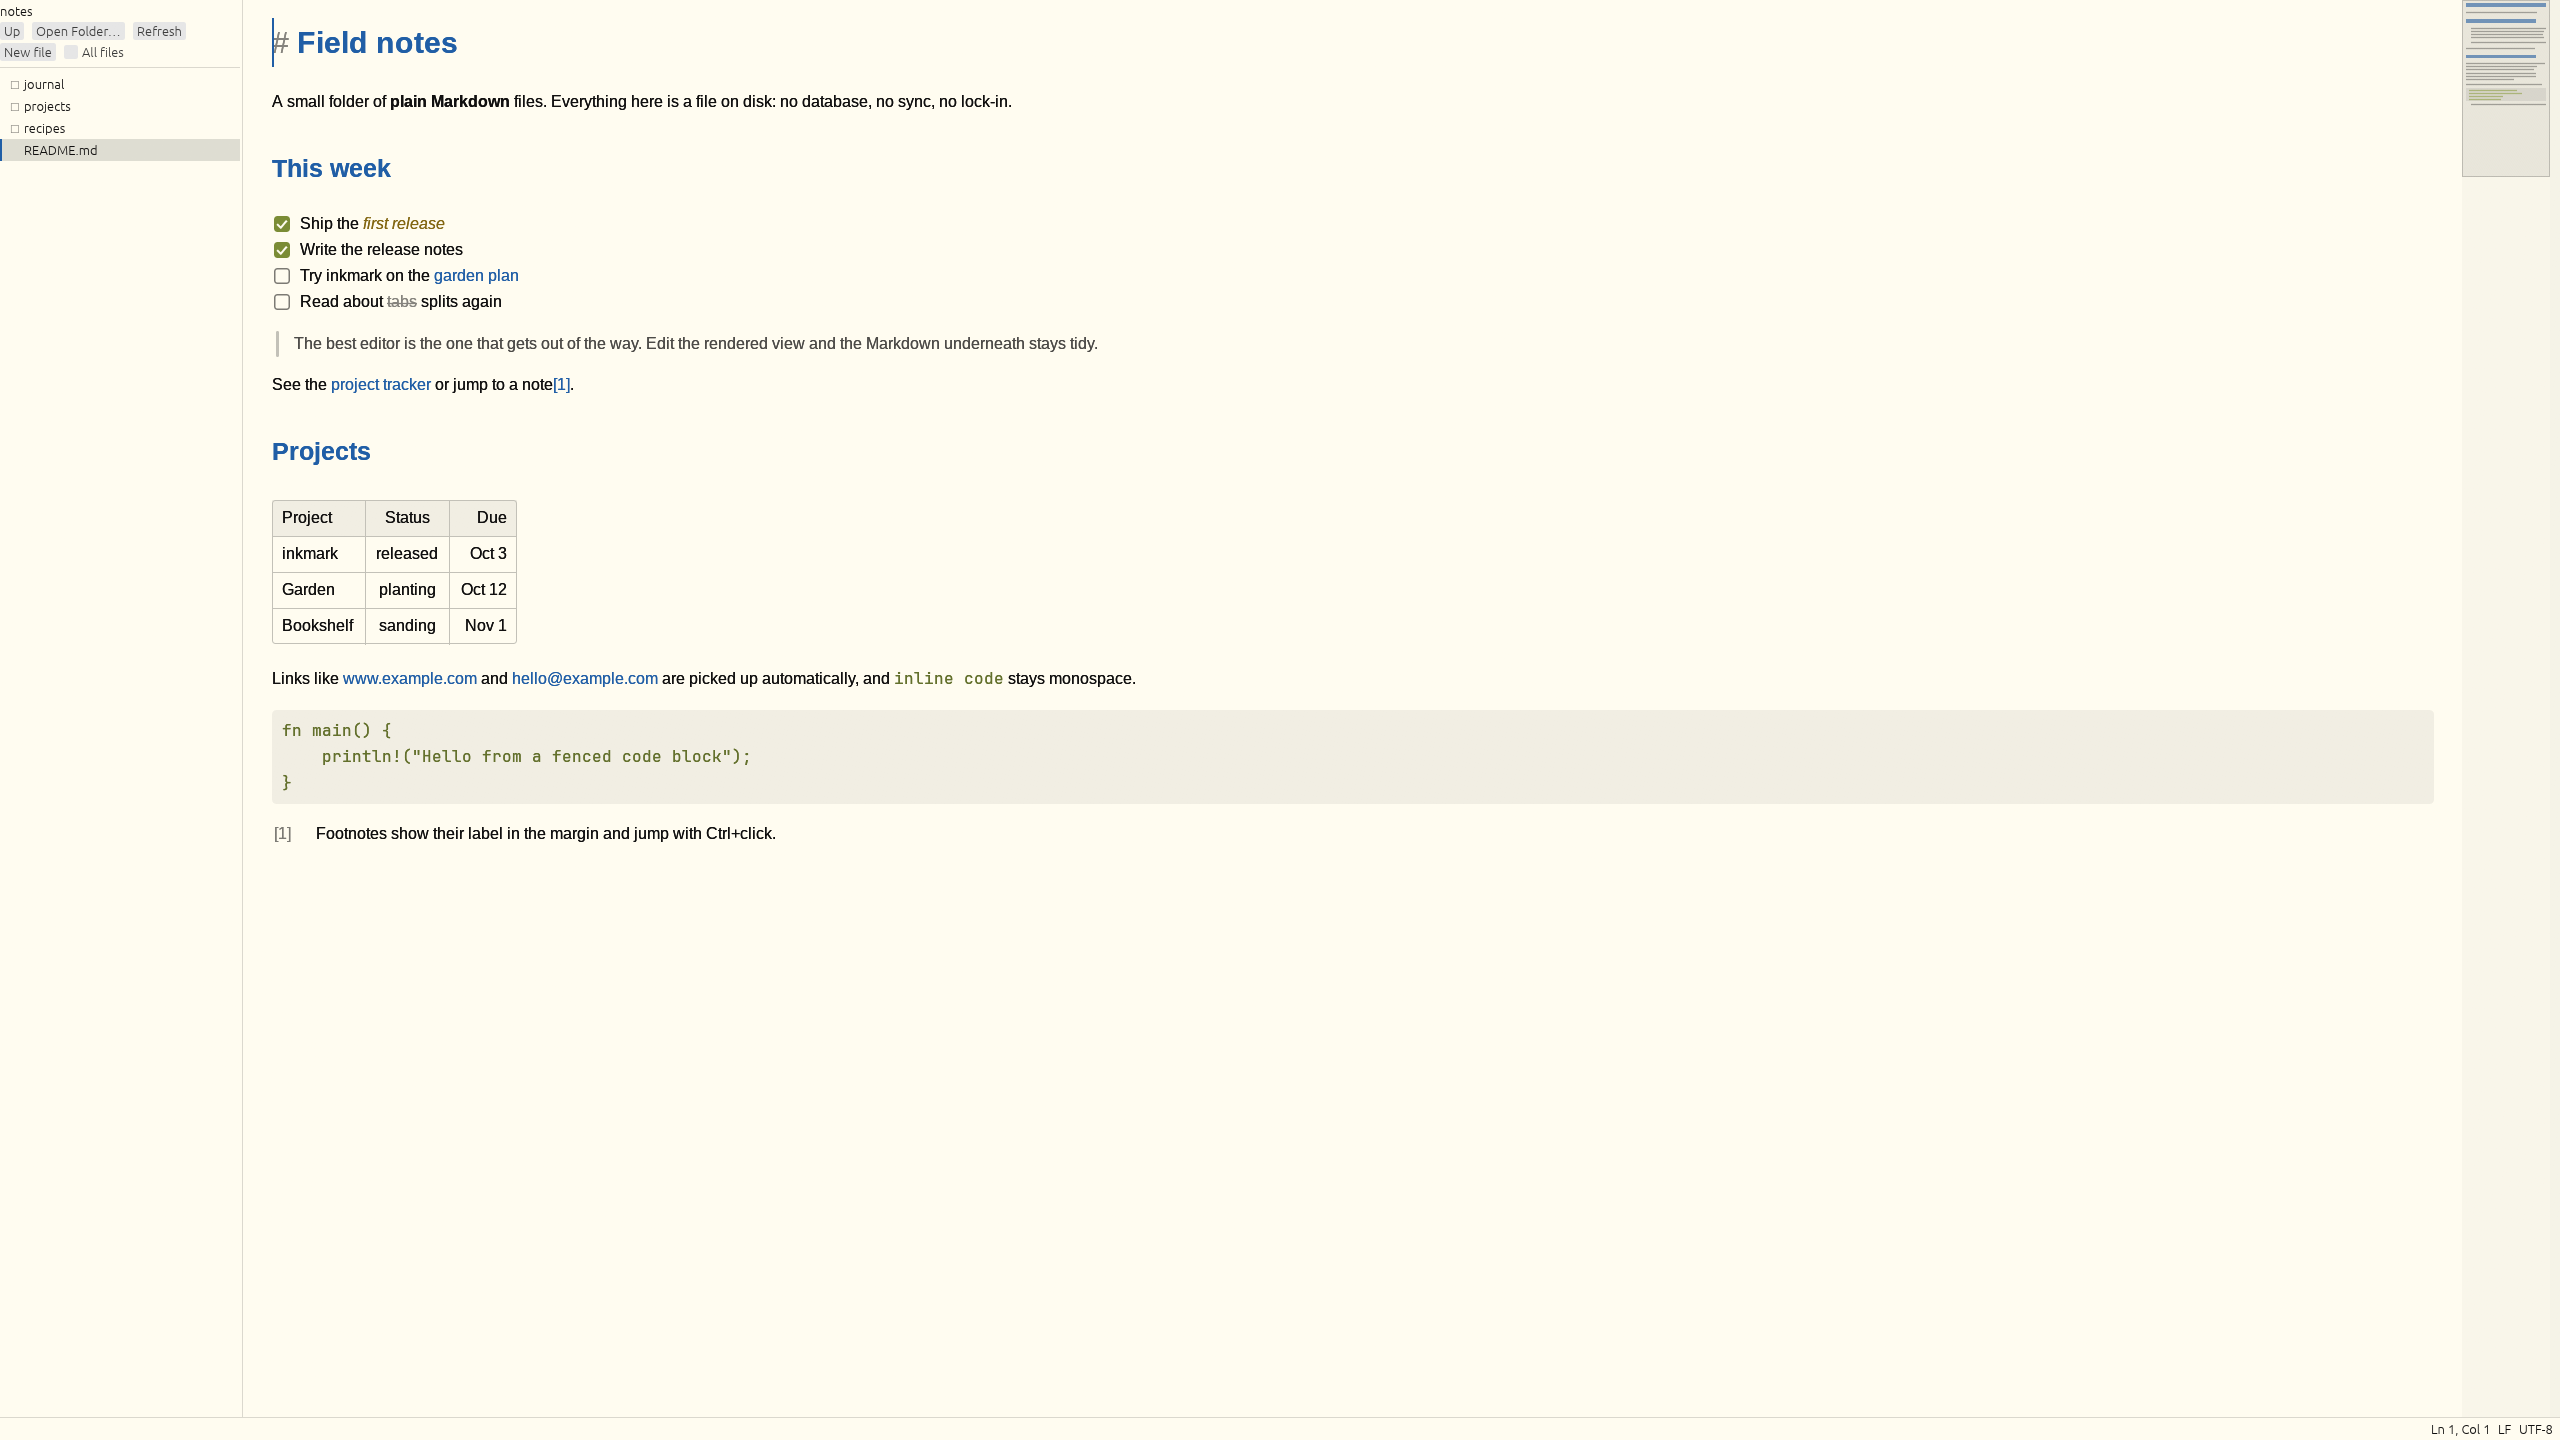
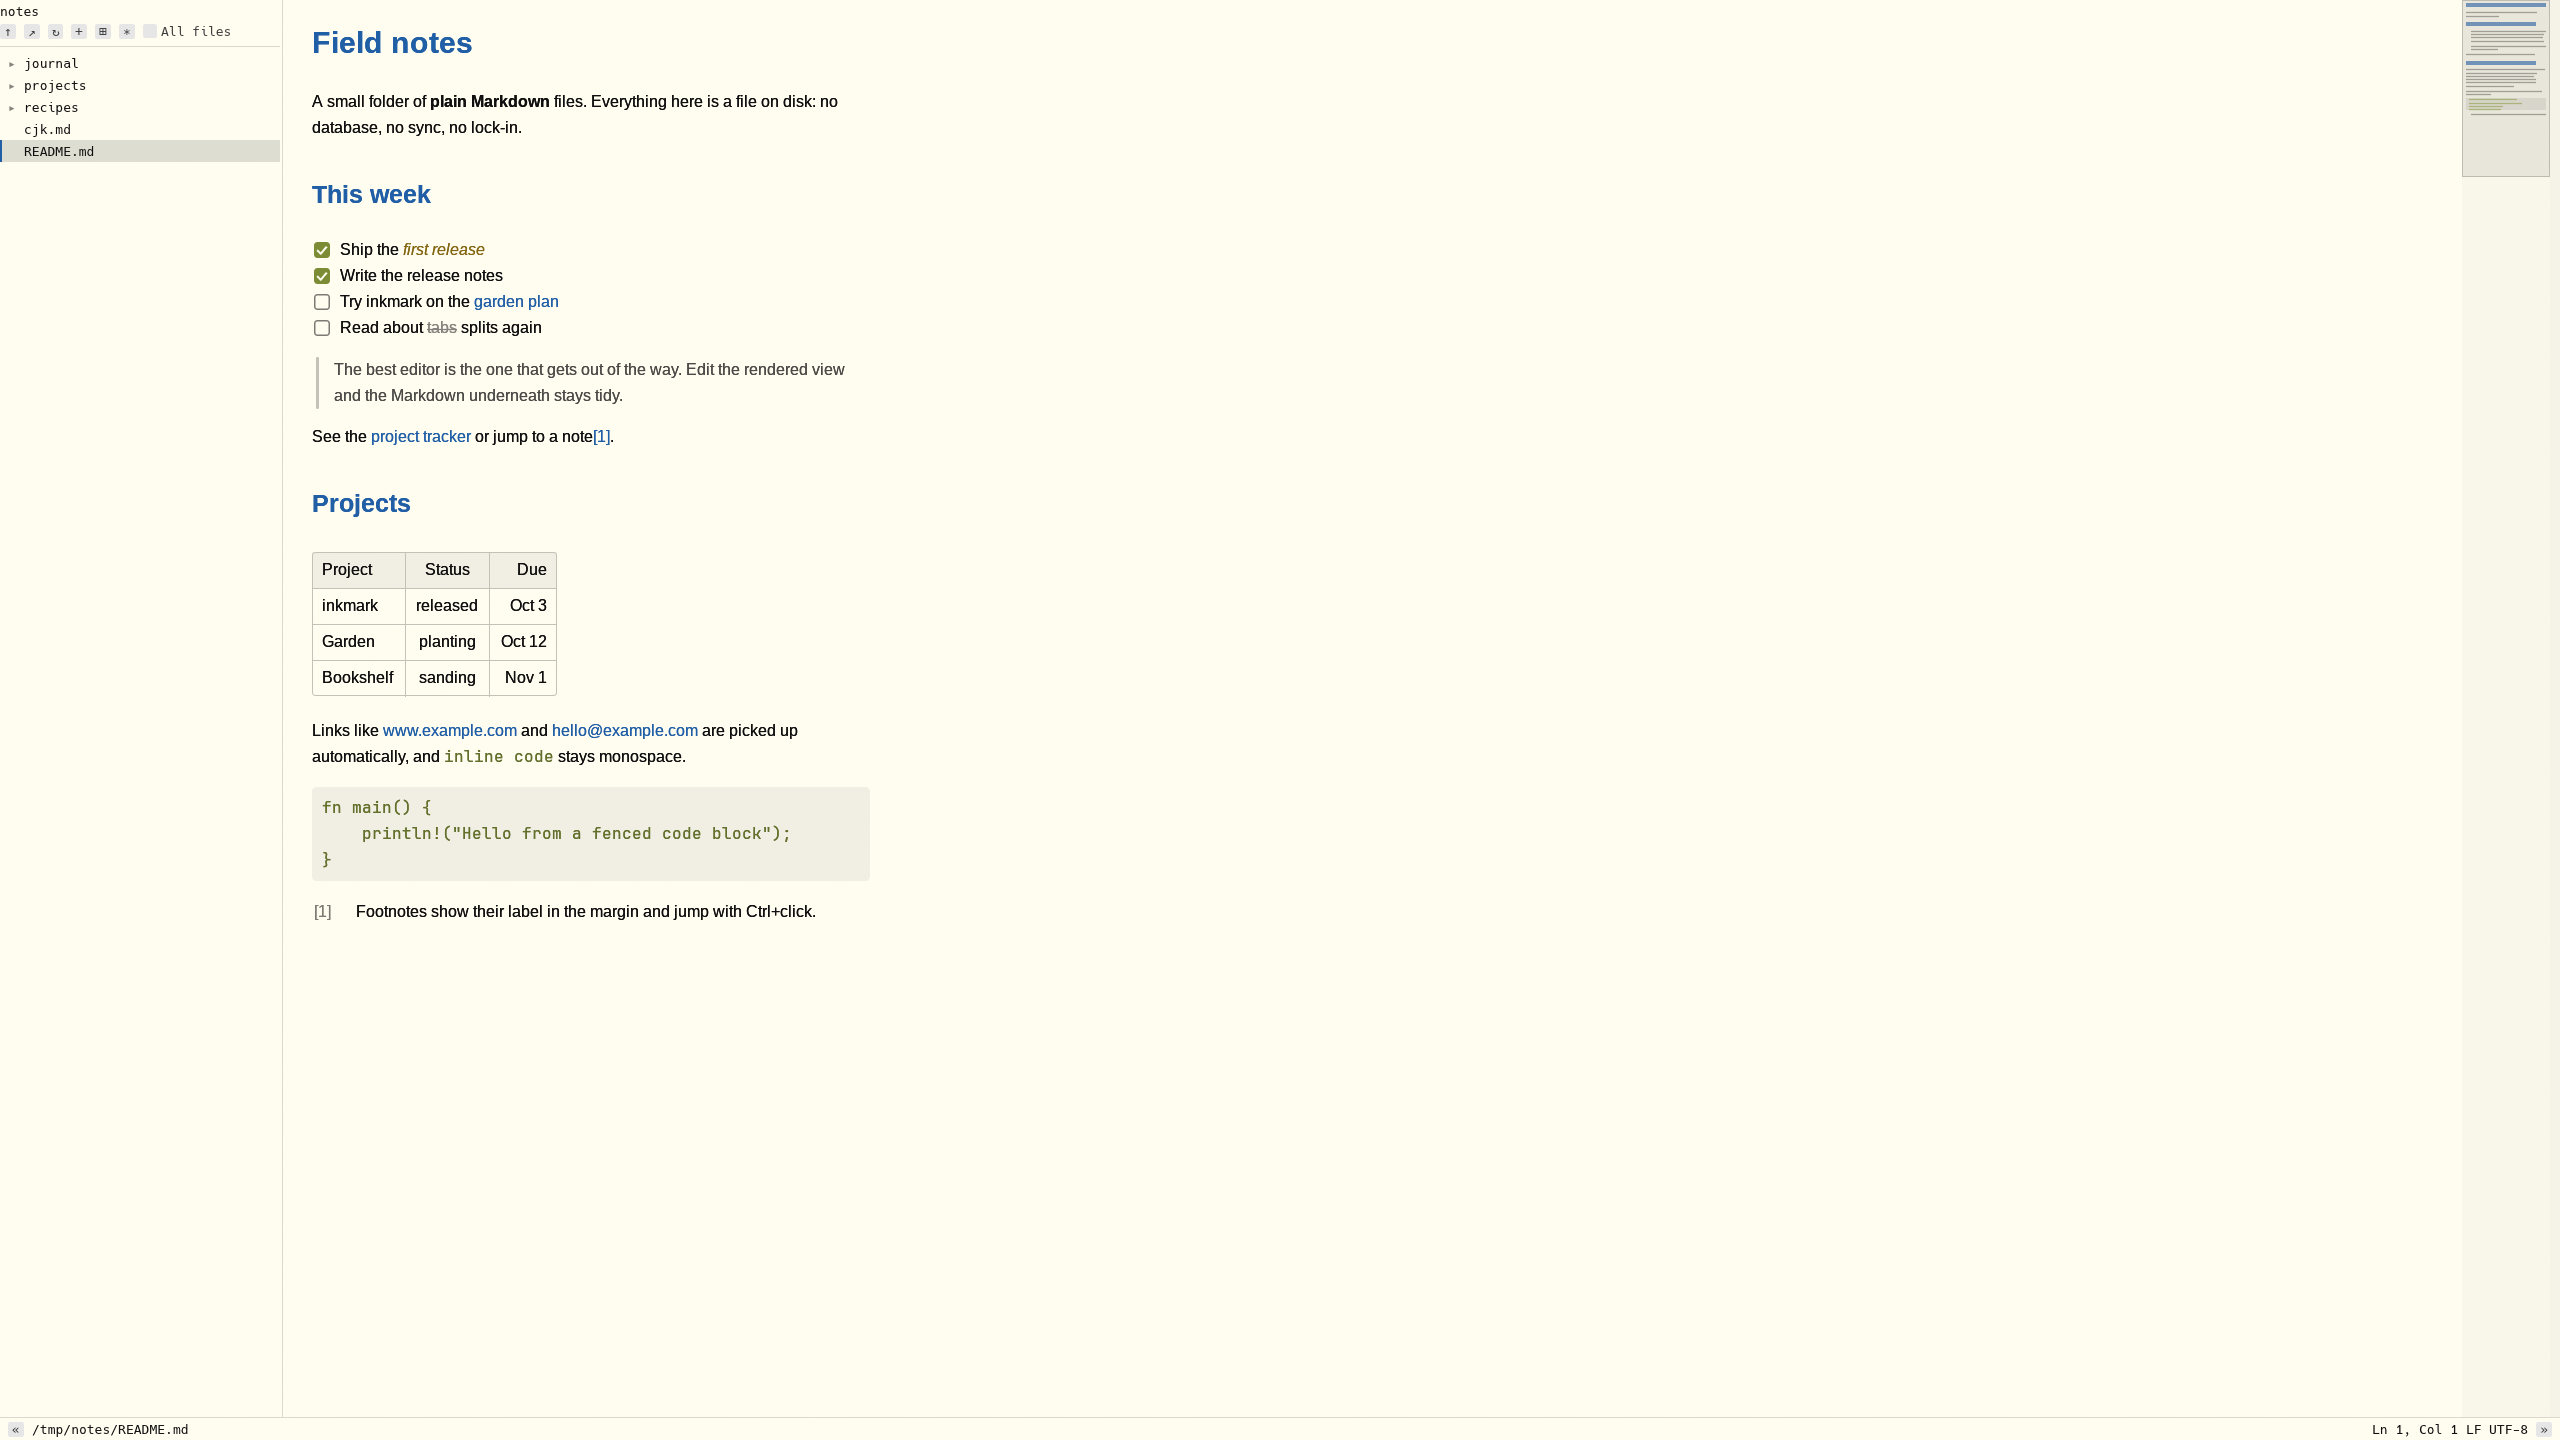
Refresh the README screenshots
The gallery still showed the old text header and footer. These are the
current window: the sidebar marks, « and » on the status bar, and the
heading outline on the Tokyo Night and Rosé Pine shots. The themes are
Tokyo Night, Flexoki Light, Catppuccin Latte, Rosé Pine, and the
built-in dark theme.

diff --git a/README.md b/README.md
@@ -5,7 +5,7 @@
 A fast, local Markdown editor for Linux and Wayland. Plain `.md` files on
 disk are the only source of truth: no accounts, sync or plugins.
 
-![inkmark in split view: the notes folder in the sidebar, Markdown on the left and the rendered document on the right, in the Tokyo Night theme](docs/screenshots/split-tokyo-night.png)
+![inkmark in split view: the notes folder in the sidebar, Markdown on the left, the rendered document on the right, and the heading outline, in the Tokyo Night theme](docs/screenshots/split-tokyo-night.png)
 
 - **Three views of one document**: split (raw Markdown left, rendered
   right), code only, or live only. Both panes are editable; one undo history.
@@ -41,11 +41,11 @@ disk are the only source of truth: no accounts, sync or plugins.
 <td align="center">Code view · Catppuccin Latte</td>
 </tr>
 <tr>
-<td><img src="docs/screenshots/long-document-rose-pine.png" alt="A 5 MB book in split view with both minimaps, Rosé Pine theme"></td>
+<td><img src="docs/screenshots/long-document-rose-pine.png" alt="A 5 MB book in split view with the heading outline and both minimaps, Rosé Pine theme"></td>
 <td><img src="docs/screenshots/split-built-in-dark.png" alt="Split view in inkmark's built-in dark theme"></td>
 </tr>
 <tr>
-<td align="center">A 5 MB book with minimaps · Rosé Pine</td>
+<td align="center">A 5 MB book with the outline and minimaps · Rosé Pine</td>
 <td align="center">Built-in dark theme</td>
 </tr>
 </table>
